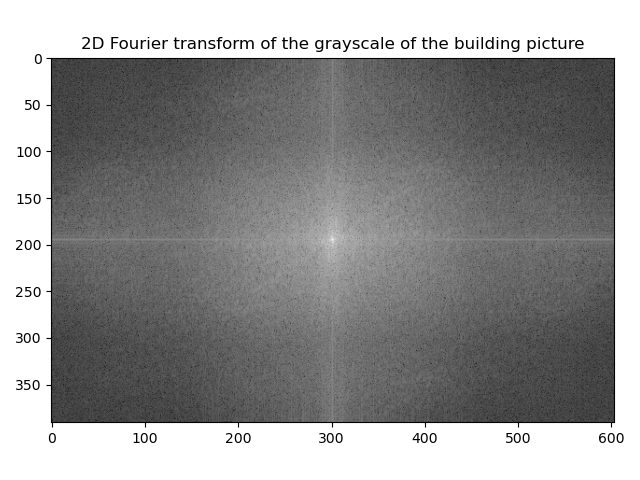
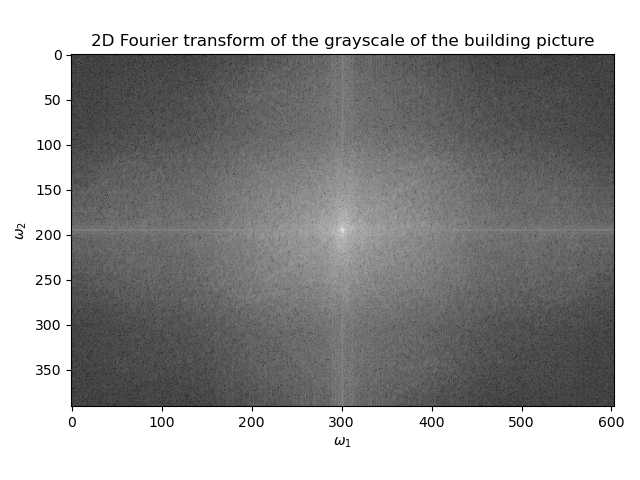
Q4 update

diff --git a/code/main.py b/code/main.py
@@ -25,6 +25,8 @@ fft_gray_building = np.fft.fftshift(np.fft.fft2(gray_building))
 fft_gray = np.log(1 + np.abs(fft_gray_building))
 plt.imshow(fft_gray, cmap='gray')
 plt.title('2D Fourier transform of the grayscale of the building picture')
+plt.xlabel(r'$ \omega_1 $')
+plt.ylabel(r'$ \omega_2 $')
 plt.tight_layout()
 plt.show()
 
@@ -203,7 +205,7 @@ axes[1].imshow(np.abs(np.fft.ifft2(np.fft.ifftshift(ampRdm_phasePort))), cmap='g
 axes[1].set_title("Portrait Phase with Random Amplitude")
 plt.tight_layout()
 plt.show()
-
+'''
 # --------------------------------------------------Q3-------------------------------------------------- #
 
 def func(x, y):
@@ -218,7 +220,9 @@ y = np.arange(0, 512, 1)
 X, Y = np.meshgrid(x, y)  # grid of point
 Z = func(X, Y)  # evaluation of the function on the grid
 plt.imshow(Z, cmap='gray')
-plt.title('2D Fourier transform of the grayscale of the F_1(x,y)')
+plt.title(r'2D Fourier transform of the grayscale of the $F_1(x,y)$')
+plt.xlabel(r'$\omega_1$')
+plt.ylabel(r'$\omega_2$')
 plt.tight_layout()
 plt.show()
 
@@ -226,7 +230,9 @@ plt.show()
 fft_Z = np.fft.fftshift(np.fft.fft2(Z))
 fft_gray = np.log(1 + np.abs(fft_Z))
 plt.imshow(fft_gray, cmap='gray')
-plt.title('2D Fourier transform of the grayscale of the F_1(x,y)')
+plt.title(r'2D Fourier transform of the grayscale of the $F_1(x,y)$')
+plt.xlabel(r'$\omega_1$')
+plt.ylabel(r'$\omega_2$')
 plt.tight_layout()
 plt.show()
 
@@ -240,9 +246,13 @@ fft_Z = np.fft.fftshift(np.fft.fft2(Z))
 fft_gray = np.log(1 + np.abs(fft_Z))
 fig33, axes = plt.subplots(1, 2, figsize=(10, 10))
 axes[0].imshow(Z, cmap='gray')
-axes[0].set_title("F_10(x,y) in space domain")
+axes[0].set_title(r"$F_{10}(x,y)$ in space domain")
 axes[1].imshow(fft_gray, cmap='gray')
-axes[1].set_title("F_10(x,y) in frequency domain")
+axes[1].set_title(r"$F_{10}(x,y)$ in frequency domain")
+axes[0].set_xlabel('x')
+axes[0].set_ylabel('y')
+axes[1].set_xlabel(r'$\omega_1$')
+axes[1].set_ylabel(r'$\omega_2$')
 plt.tight_layout()
 plt.show()
 
@@ -257,6 +267,10 @@ axes[0].imshow(gray_mandrill, cmap='gray')
 axes[0].set_title("grayscale Mandrill")
 axes[1].imshow(fft_mandrill, cmap='gray')
 axes[1].set_title("grayscale Mandrill in frequency domain")
+axes[0].set_xlabel('x')
+axes[0].set_ylabel('y')
+axes[1].set_xlabel(r'$\omega_1$')
+axes[1].set_ylabel(r'$\omega_2$')
 plt.tight_layout()
 plt.show()
 
@@ -270,6 +284,10 @@ axes[0].imshow(down_sampled_mandrill, cmap='gray')
 axes[0].set_title("grayscale downsampled Mandrill")
 axes[1].imshow(fft_down_sampled_mandrill, cmap='gray')
 axes[1].set_title("grayscale downsampled Mandrill in frequency domain")
+axes[0].set_xlabel('x')
+axes[0].set_ylabel('y')
+axes[1].set_xlabel(r'$\omega_1$')
+axes[1].set_ylabel(r'$\omega_2$')
 plt.tight_layout()
 plt.show()
 
@@ -358,9 +376,13 @@ axes[0].imshow(gray_cameraman, cmap='gray')
 axes[0].set_title("original cameraman")
 axes[1].imshow(displaced_cameraman, cmap='gray')
 axes[1].set_title("displaced cameraman by [150.7, 110.4]")
+axes[0].set_xlabel('x')
+axes[0].set_ylabel('y')
+axes[1].set_xlabel('x')
+axes[1].set_ylabel('y')
 plt.tight_layout()
 plt.show()
-'''
+
 # Q4.d
 ryan = cv2.imread(filename='../given_data/Ryan.jpg')
 gray_ryan = cv2.cvtColor(ryan, cv2.COLOR_BGR2GRAY)
@@ -381,5 +403,87 @@ axes[0].imshow(gray_ryan, cmap='gray')
 axes[0].set_title("original grayscale ryan")
 axes[1].imshow(filtered_ryan, cmap='gray')
 axes[1].set_title("filtered ryan")
+axes[0].set_xlabel('x')
+axes[0].set_ylabel('y')
+axes[1].set_xlabel('x')
+axes[1].set_ylabel('y')
 plt.tight_layout()
 plt.show()
+
+# Q4e
+def rotating_img_draft(image, theta):
+    """
+ Calculate the displacement of a pixel using a bilinear interpolation.
+ :param image: the image to rotate.
+ :param theta: Angle of rotation in radians.
+ :return:
+ rotated_image: The new displaced image
+ """
+    (rows, cols) = np.shape(image)
+
+    mid_x = (cols/2) if (cols % 2 == 0) else ((cols+1)/2)
+    mid_y = (rows / 2) if (rows % 2 == 0) else ((rows + 1) / 2)
+
+    original_grid = [np.array([row, col]) for row in range(rows) for col in range(cols)]
+
+    rotation_matrix = np.array([np.cos(theta), np.sin(theta), -np.sin(theta), np.cos(theta)]).reshape((2, 2))
+    rotated_image = np.zeros((rows, cols))
+
+    shifted_grid = [np.array([point[0] - mid_y, point[1] - mid_x]) for point in original_grid]
+
+    rotated_grid = [np.matmul(rotation_matrix, np.array([point[0], point[1]]).reshape(2,1)) for point in shifted_grid]
+
+    shifted_rotated_grid_n = [np.array([point[0] - mid_y + 1, point[1] - mid_x + 1]) for point in rotated_grid]
+#    shifted_rotated_grid_n = [np.array([int(point[0]), int(point[1])]) for point in shifted_rotated_grid]
+    for i,p in enumerate(shifted_rotated_grid_n):
+        if p[0] > mid_y:
+            shifted_rotated_grid_n[i][0] = rows - 1
+        if p[0] < 0:
+            shifted_rotated_grid_n[i][0] = 0
+        if p[1] > mid_x:
+            shifted_rotated_grid_n[i][1] = cols - 1
+        if p[1] < 0:
+            shifted_rotated_grid_n[i][1] = 0
+    #print(max([p[1] for p in shifted_rotated_grid_n]))
+    for pr, po in zip(shifted_rotated_grid_n, original_grid):
+        rotated_image[int(pr[0])][int(pr[1])] = image[po[0]][po[1]]
+
+    return rotated_image
+
+def rotating_img(image, theta):
+    """
+ Calculate the displacement of a pixel using a bilinear interpolation.
+ :param image: the image to rotate.
+ :param theta: Angle of rotation in radians.
+ :return:
+ rotated_image: The new displaced image
+ """
+    (rows, cols) = np.shape(image)
+    dx = (np.sqrt(512))*np.cos(theta)
+    dy = (np.sqrt(512))*np.sin(theta)
+    rotated_image = general_displacement(dx,dy,image)
+
+    return rotated_image
+
+'''
+rotated_ryan = rotating_img_draft(gray_ryan, np.deg2rad(90))
+plt.imshow(rotated_ryan, cmap='gray')
+plt.title('rotated ryan by angle of: pi/4')
+plt.tight_layout()
+plt.show()
+'''
+'''
+mat = np.array([[1,2,12],[3,4,34],[5,6,56]])
+rotated_ryan = rotating_img(mat, np.deg2rad(90))
+print(rotated_ryan)
+
+fig44, axes = plt.subplots(1, 2, figsize=(10, 10))
+axes[0].imshow(mat, cmap='gray')
+axes[0].set_title("original grayscale ryan")
+axes[1].imshow(rotated_ryan, cmap='gray')
+axes[1].set_title("rotated ryan")
+plt.tight_layout()
+plt.show()
+'''
+
+
